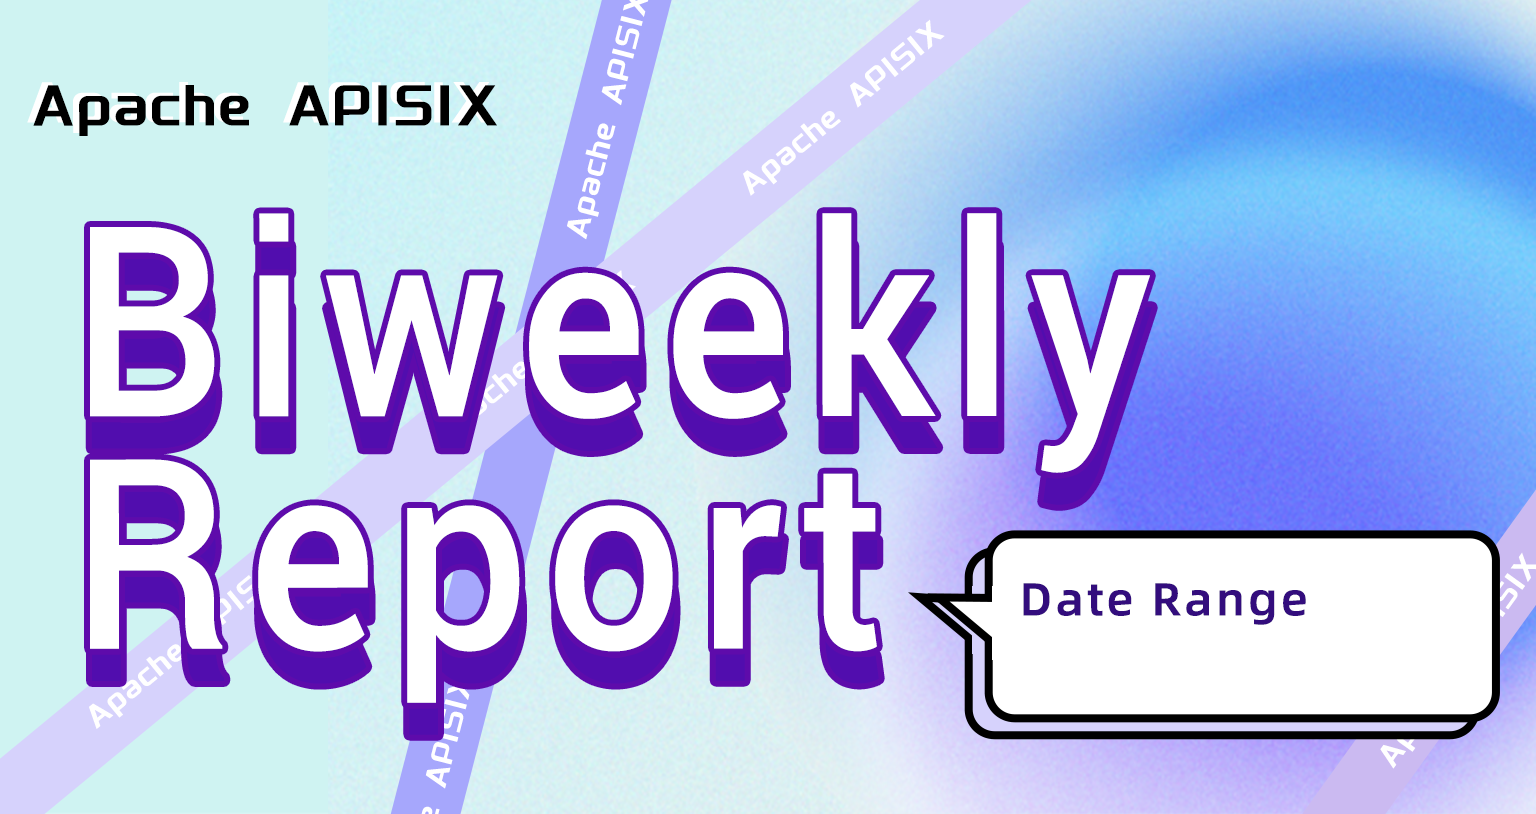
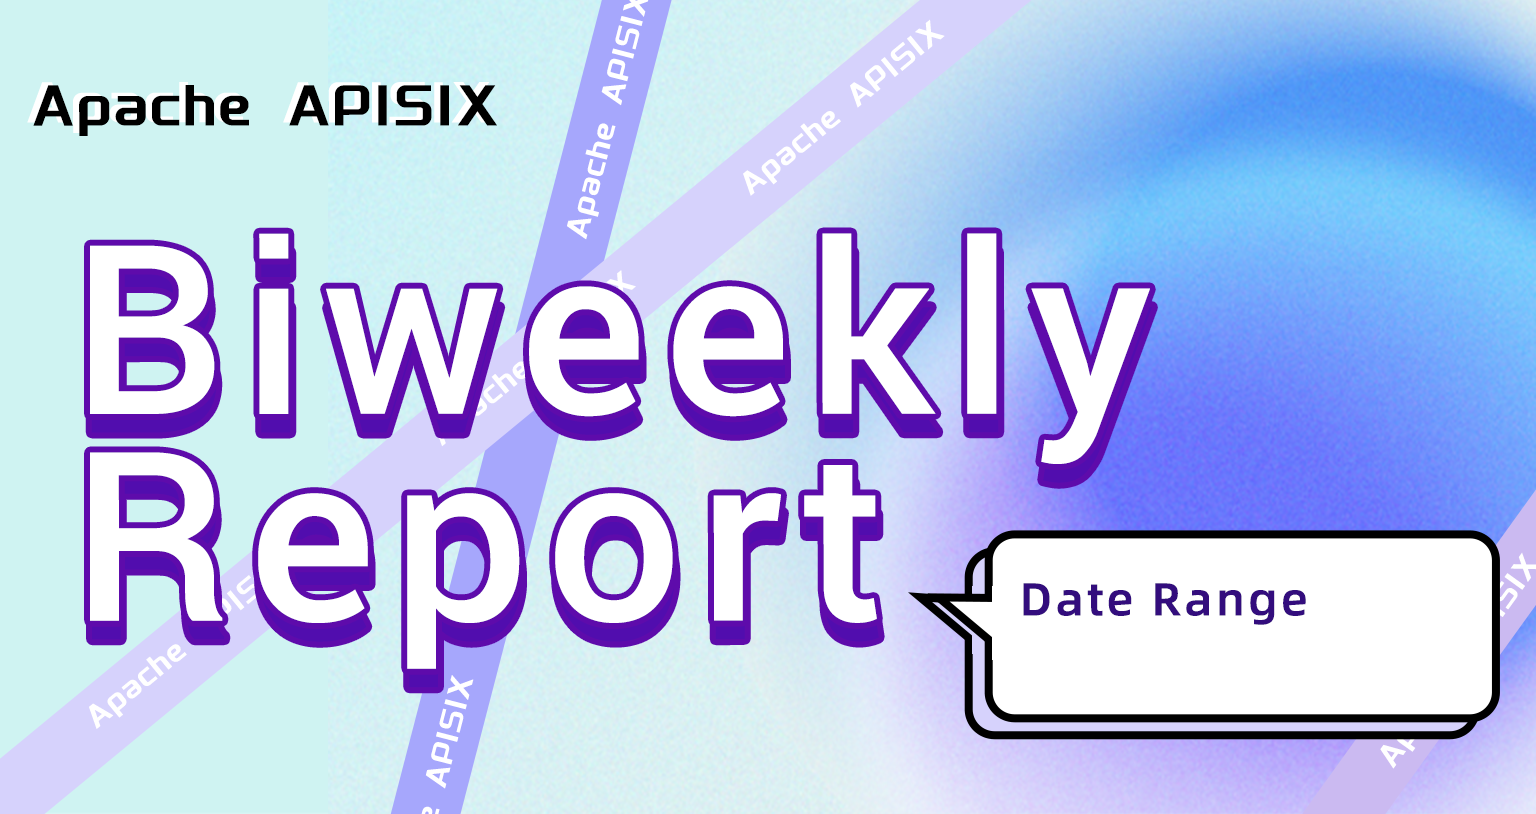
fix: ratio size, image

diff --git a/src/lib/Counter.svelte b/src/lib/Counter.svelte
@@ -6,6 +6,7 @@
   const size = {
     width: 768,
     height: 407,
+    pixelRatio: 1,
   };
 
   $: dateStr = '2022.6.1-2022.6.15';
@@ -18,7 +19,7 @@
       imageEn.src = biweeklyEn;
       await new Promise<void>((resolve) => imageEn.addEventListener('load', () => resolve()));
     }
-    ctx.drawImage(imageEn, 0, 0, width * 2, height * 2, 0, 0, width, height);
+    ctx.drawImage(imageEn, 0, 0, width, height);
 
     ctx.font = '23px system-ui';
     ctx.fillStyle = '#510dae';
@@ -33,19 +34,19 @@
       imageZh.src = biweeklyZh;
       await new Promise<void>((resolve) => imageZh.addEventListener('load', () => resolve()));
     }
-    ctx.drawImage(imageZh, 0, 0, width * 2, height * 2, 0, 0, width, height);
+    ctx.drawImage(imageZh, 0, 0, width, height);
 
     ctx.font = '23px system-ui';
     ctx.fillStyle = '#510dae';
     ctx.fillText(dateStr, 427, 180);
   };
 
-  let canvasZh, canvasEn;
   const nameArr = ['en', 'zh'];
+  let canvasZh, canvasEn;
   const download = () => {
     [canvasEn, canvasZh].forEach((v, i) => {
-      const canvasUrl = v.getCanvas().toDataURL('image/png');
-      console.log(canvasUrl, v.canvas);
+      const canvas = v.getCanvas();
+      const canvasUrl = canvas.toDataURL('image/jpeg', 1);
       const createEl = document.createElement('a');
       createEl.href = canvasUrl;
       createEl.download = `biweekly-${dateStr}-${nameArr[i]}.png`;
